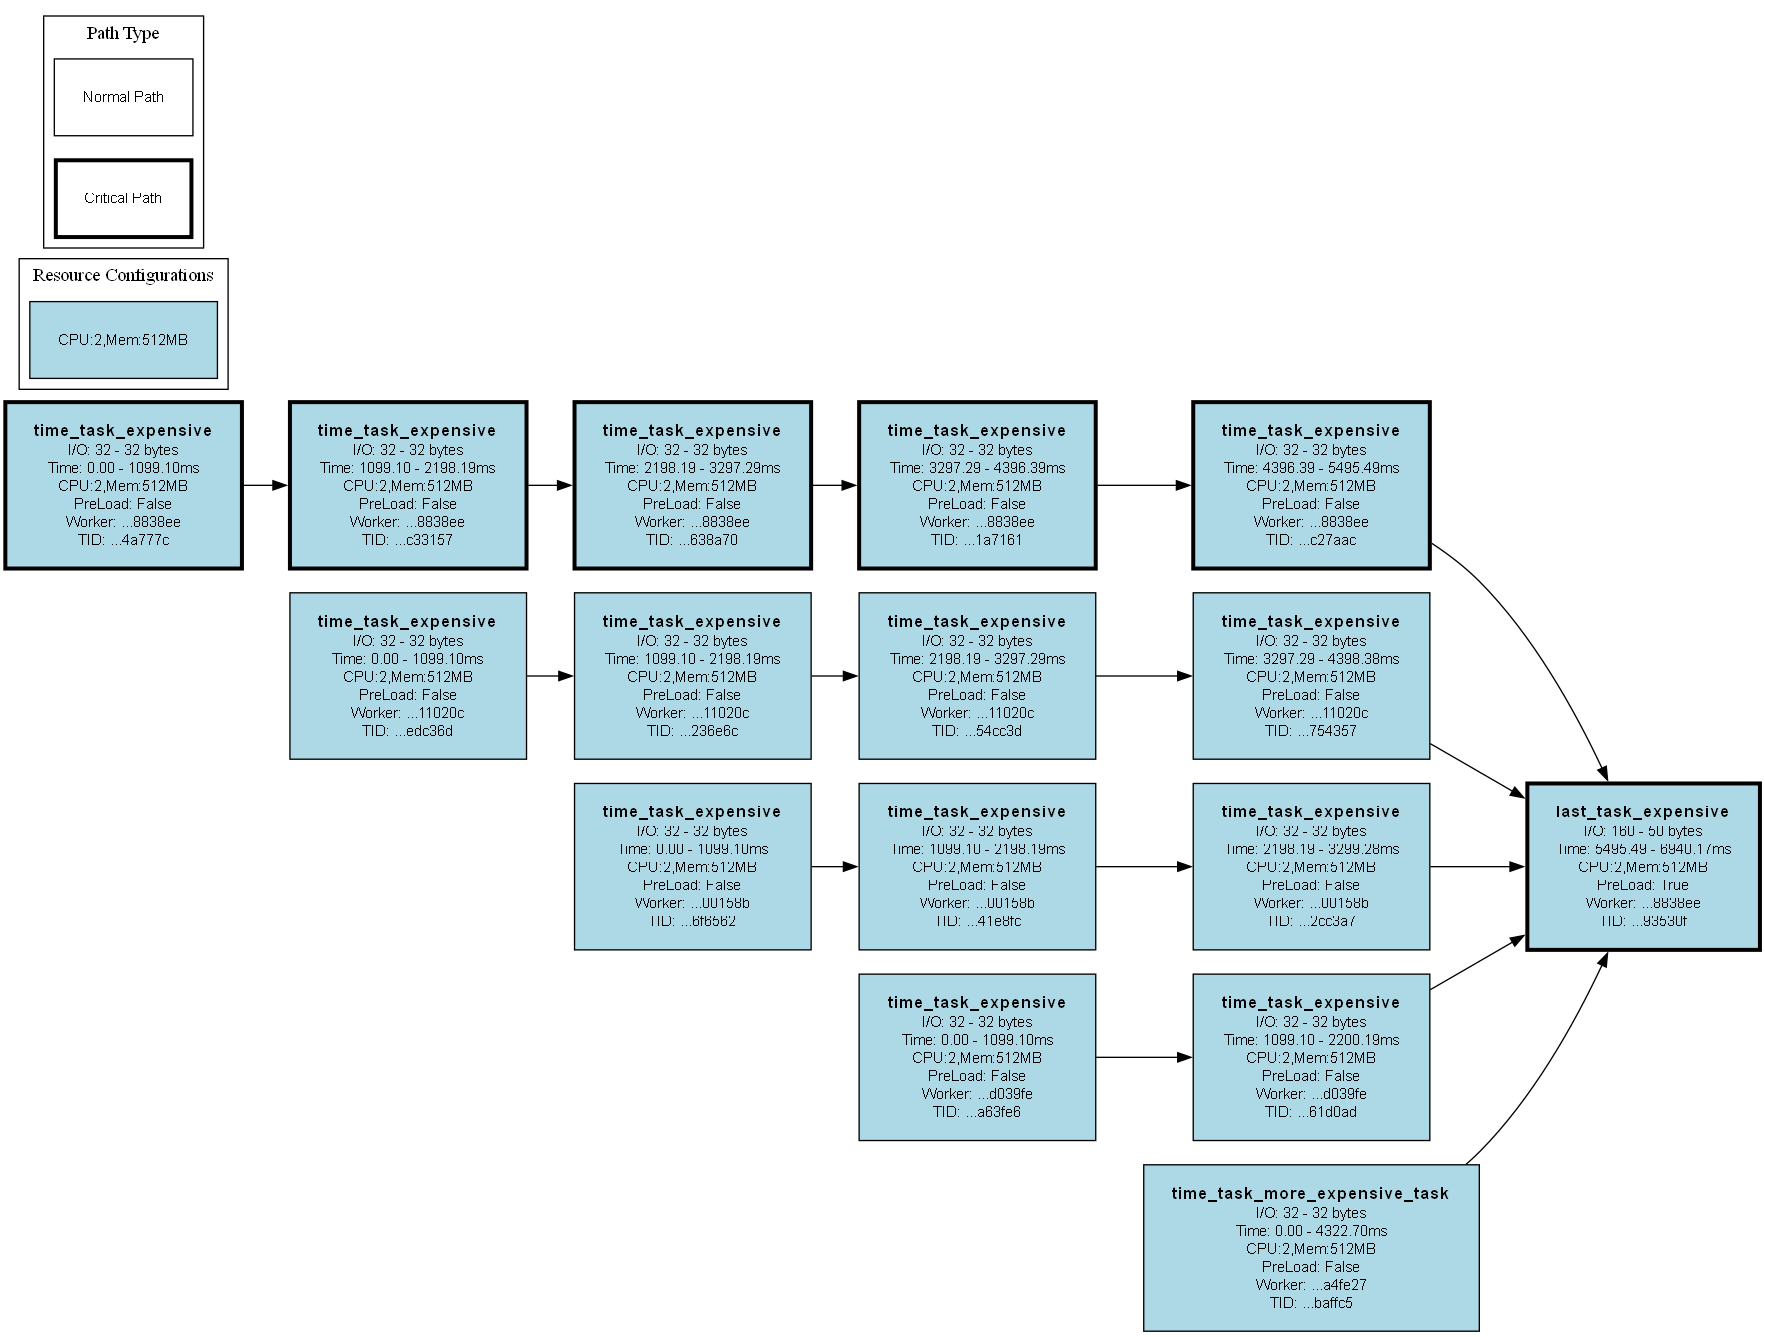
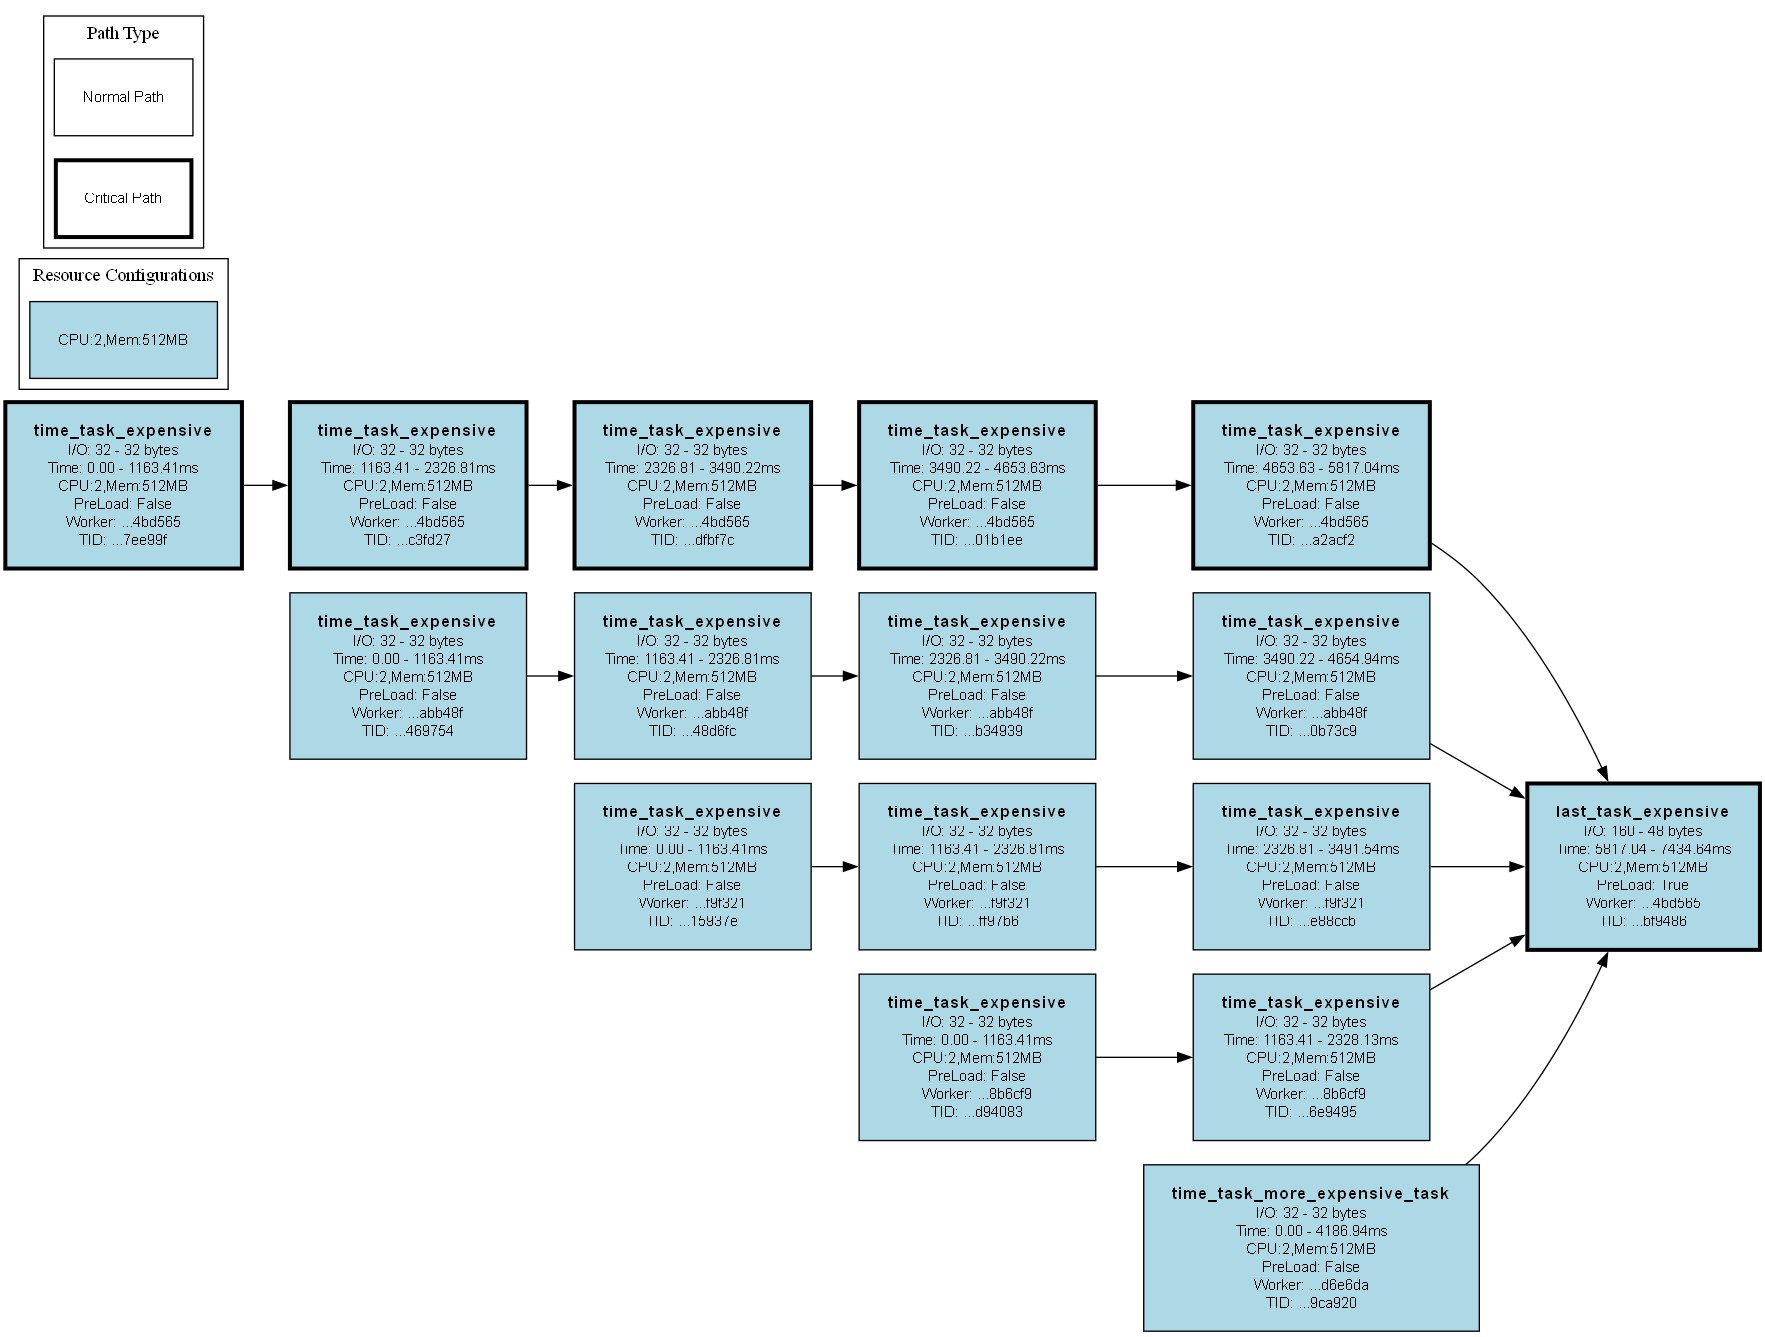
now storing the amount of metrics of each type that were available at the time each plan was created

diff --git a/src/planning/first_planner_algorithm.py b/src/planning/first_planner_algorithm.py
@@ -157,13 +157,28 @@ class FirstPlannerAlgorithm(AbstractDAGPlanner):
             if resource_config.worker_id not in unique_worker_ids: unique_worker_ids[resource_config.worker_id] = 0
             unique_worker_ids[resource_config.worker_id] += 1
 
+        prediction_samples_used = AbstractDAGPlanner.PlanPredictionSampleCounts(
+            # note: data from ALL workflow instances
+            for_download_speed=len(metadata_access.cached_download_speeds),
+            for_upload_speed=len(metadata_access.cached_upload_speeds),
+            # note: only related to instances from same workflow type
+            for_execution_time=len(metadata_access.cached_execution_time_per_byte),
+            for_output_size=len(metadata_access.cached_io_ratios)
+        )
+
         logger.info(f"=== FINAL RESULTS ===")
         logger.info(f"Critical Path | Nr. Nodes: {len(final_critical_path_nodes)}, Predicted Completion Time: {final_critical_path_time} ms")
         logger.info(f"Number of PreLoad optimizations: {total_preload_optimizations}")
         logger.info(f"Number of unique workers: {len(unique_worker_ids)}")
         logger.info(f"Worker Resource Configuration (same for all tasks): (cpus={self.config.worker_resource_configuration.cpus}, memory={self.config.worker_resource_configuration.memory_mb})")
+        logger.info(f"Prediction samples used: {prediction_samples_used}")
 
-        return AbstractDAGPlanner.PlanOutput(self.__class__.__name__, final_nodes_info, final_critical_path_node_ids)
+        return AbstractDAGPlanner.PlanOutput(
+            self.__class__.__name__, 
+            final_nodes_info, 
+            final_critical_path_node_ids, 
+            prediction_samples_used
+        )
 
     @staticmethod
     async def override_on_worker_ready(intermediate_storage: Storage, dag: FullDAG, this_worker_id: str | None):

diff --git a/src/planning/second_planner_algorithm.py b/src/planning/second_planner_algorithm.py
@@ -261,14 +261,29 @@ class SecondPlannerAlgorithm(AbstractDAGPlanner):
             if node.try_get_annotation(PreLoadOptimization):
                 nodes_with_preload += 1
 
+        prediction_samples_used = AbstractDAGPlanner.PlanPredictionSampleCounts(
+            # note: data from ALL workflow instances
+            for_download_speed=len(metadata_access.cached_download_speeds),
+            for_upload_speed=len(metadata_access.cached_upload_speeds),
+            # note: only related to instances from same workflow type
+            for_execution_time=len(metadata_access.cached_execution_time_per_byte),
+            for_output_size=len(metadata_access.cached_io_ratios)
+        )
+
         logger.info(f"=== FINAL RESULTS ===")
         logger.info(f"Critical Path | Nr. Nodes: {len(final_critical_path_nodes)}, Predicted Completion Time: {final_critical_path_time} ms")
         logger.info(f"Number of PreLoad optimizations: {total_preload_optimizations}")
         logger.info(f"Number of unique workers: {len(unique_worker_ids)}")
         logger.info(f"Successfully downgraded resources for {successful_downgrades}/{len(_dag._all_nodes)} nodes")
         logger.info(f"Worker Resource Configuration Distribution: {resource_distribution}")
+        logger.info(f"Prediction samples used: {prediction_samples_used}")
 
-        return AbstractDAGPlanner.PlanOutput(self.__class__.__name__, final_nodes_info, final_critical_path_node_ids)
+        return AbstractDAGPlanner.PlanOutput(
+            self.__class__.__name__, 
+            final_nodes_info, 
+            final_critical_path_node_ids, 
+            prediction_samples_used
+        )
 
     @staticmethod
     async def override_on_worker_ready(intermediate_storage: Storage, dag: FullDAG, this_worker_id: str | None):

diff --git a/src/planning/simple_planner_algorithm.py b/src/planning/simple_planner_algorithm.py
@@ -74,12 +74,27 @@ class SimplePlannerAlgorithm(AbstractDAGPlanner):
             if resource_config.worker_id not in unique_worker_ids: unique_worker_ids[resource_config.worker_id] = 0
             unique_worker_ids[resource_config.worker_id] += 1
 
+        prediction_samples_used = AbstractDAGPlanner.PlanPredictionSampleCounts(
+            # note: data from ALL workflow instances
+            for_download_speed=len(metadata_access.cached_download_speeds),
+            for_upload_speed=len(metadata_access.cached_upload_speeds),
+            # note: only related to instances from same workflow type
+            for_execution_time=len(metadata_access.cached_execution_time_per_byte),
+            for_output_size=len(metadata_access.cached_io_ratios)
+        )
+
         logger.info(f"=== FINAL RESULTS ===")
         logger.info(f"Critical Path | Nr. Nodes: {len(final_critical_path_nodes)}, Predicted Completion Time: {final_critical_path_time} ms")
         logger.info(f"Number of unique workers: {len(unique_worker_ids)}")
         logger.info(f"Worker Resource Configuration (same for all tasks): (cpus={self.config.worker_resource_configuration.cpus}, memory={self.config.worker_resource_configuration.memory_mb})")
+        logger.info(f"Prediction samples used: {prediction_samples_used}")
 
-        return AbstractDAGPlanner.PlanOutput(self.__class__.__name__, final_nodes_info, final_critical_path_node_ids)
+        return AbstractDAGPlanner.PlanOutput(
+            self.__class__.__name__, 
+            final_nodes_info, 
+            final_critical_path_node_ids, 
+            prediction_samples_used
+        )
     
     @staticmethod
     async def override_on_worker_ready(intermediate_storage: Storage, dag: FullDAG, this_worker_id: str | None):

diff --git a/src/planning/abstract_dag_planner.py b/src/planning/abstract_dag_planner.py
@@ -39,10 +39,18 @@ class AbstractDAGPlanner(ABC, WorkerExecutionLogic):
         path_completion_time: float
 
     @dataclass
+    class PlanPredictionSampleCounts:
+        for_download_speed: int
+        for_upload_speed: int
+        for_execution_time: int
+        for_output_size: int
+
+    @dataclass
     class PlanOutput:
         planner_name: str
         nodes_info: dict[str, "AbstractDAGPlanner.PlanningTaskInfo"]
         critical_path_node_ids: set[str]
+        prediction_sample_counts: "AbstractDAGPlanner.PlanPredictionSampleCounts"
 
     def plan(self, dag, metadata_access: MetadataAccess) -> PlanOutput | None:
         """

diff --git a/TODO.md b/TODO.md
@@ -2,9 +2,11 @@
 - For each workflow type (already ran), show:
     - Dimensões
         tamanho total do/das histórico/samples (traz mais precisão/consistência nas previsões?)
+            Total number of samples used for ALL predictions of a workflow instance
+                upload speed samples + download speed samples + task execution samples
         algoritmo de planeamento usado
     - Valores a comparar:
-        [TODO] makespan
+        makespan
         time spent executing tasks
         time spent downloading data
         time spent uploading data
